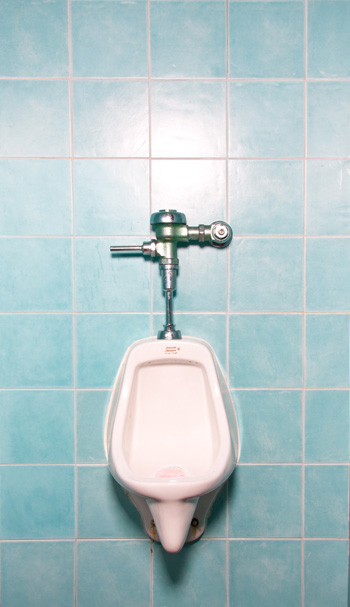
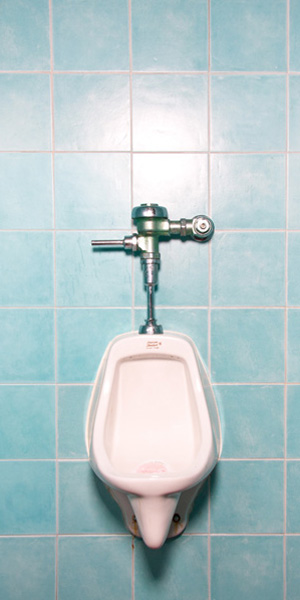
new images

diff --git a/index.html b/index.html
@@ -16,7 +16,7 @@
                 nextSelector: '#page_next',
                 itemSelector: 'figure',
                 loadingImg: '',
-                loadingText: 'coming up',
+                loadingText: 'COMING UP',
                 debug: false,
                 errorCallback: function() {
                     // fade out the error message after 2 seconds
@@ -38,10 +38,12 @@
 	    </div>	
 	        
 	    <div id="content" role="main">
+	    							<figure>
+	        	        	        	<a href="" class="link" target="_blank"><img src="img/greg.jpg" width="700" height="700" /></a></figure>
 	        	        	        <figure>
-	        	        	        	<a href="" class="link" target="_blank"><img src="img/Land1.jpg" width="723" height="512" /></a></figure>
+	        	        	        	<a href="" class="link" target="_blank"><img src="img/Land1.jpg" width="650" height="650" /></a></figure>
 	        	        	        <figure>
-	        	        	        	<a href="" class="link" target="_blank"><img src="img/cover0.gif" width="600" height="399" /></a></figure>
+	        	        	        	<a href="" class="link" target="_blank"><img src="img/street_lines.jpg" width="400" height="533" /></a></figure>
 	        	        	        <figure>
 	        	        	        	<a href="" class="link" target="_blank"><img src="img/pool.jpg" width="600" height="455" /></a></figure>
 	        	        	        <figure>
@@ -49,13 +51,27 @@
 	        	        	        <figure>
 	        	        	        	<a href="" class="link" target="_blank"><img src="img/pops.jpg" width="600" height="774" /></a></figure>
 	        	        	        <figure>
-	        	        	        	<!--<a href="" class="link" target="_blank">--><img src="img/carlsagan.jpg" width="600" height="400" /></figure>
+	        	        	        	<a href="" class="link" target="_blank"><img src="img/carlsagan.jpg" width="600" height="400" /></figure>
 	        	        	        <figure>
-	        	        	        	<!--<a href="" class="link" target="_blank">--><img src="img/spaceselfie.gif" width="600" height="400" /></figure>
+	        	        	        	<a href="" class="link" target="_blank"><img src="img/spaceselfie.gif" width="600" height="400" /></figure>
 	        	        	        <figure>
-	        	        	        	<!--<a href="" class="link" target="_blank">--><img src="img/hemingway1.jpg" width="600" height="400" /></figure>
+	        	        	        	<a href="" class="link" target="_blank"><img src="img/urinal.jpg" width="300" height="600" /></a></figure>
 	        	        	        <figure>
-	        	        	        	<!--<a href="" class="link" target="_blank">--><img src="img/DIRT.gif" width="600" height="450" /></a></figure>
+	        	        	        	<a href="" class="link" target="_blank"><img src="img/hemingway1.jpg" width="600" height="400" /></figure>
+	        	        	        <figure>
+	        	        	        	<a href="" class="link" target="_blank"><img src="img/DIRT.gif" width="600" height="400" /></a></figure>
+	        	        	        <figure>
+	        	        	        	<a href="" class="link" target="_blank"><img src="img/patti.jpg" width="600" height="800" /></a></figure>
+	        	        	        <figure>
+	        	        	        	<a href="" class="link" target="_blank"><img src="img/world1.jpg" width="700" height="457" /></a></figure>
+	        	        	        <figure>
+	        	        	        	<a href="" class="link" target="_blank"><img src="img/bust.jpg" width="400" height="349" /></a></figure>	
+	        	        	        <figure>
+	        	        	        	<a href="" class="link" target="_blank"><img src="img/hockney.gif" width="700" height="349" /></a></figure>
+	        	        	        <figure>
+	        	        	        	<a href="" class="link" target="_blank"><img src="img/bvitahand.jpg" width="450" height="419" /></a></figure>
+	        	        	        <figure>
+	        	        	        	<a href="" class="link" target="_blank"><img src="img/NYCstreet.jpg" width="525" height="700" /></a></figure>
 	        	        	       <!-- <figure>
 	        	        	        	<a href="http://turtleswithwings.tumblr.com/post/22290235460" class="link" target="_blank"><img src="/data/images/2014/11/tumblr-m3f8r5xsai1qhefv8o1-500.png" width="500" height="329" /></a></figure>
 	        	        	        <figure>
@@ -72,8 +88,9 @@
 	        	        	        	<a href="http://nimuradaisuke.tumblr.com/image/56687501206" class="link" target="_blank"><img src="/data/images/2014/10/tumblr-mqndi3djkx1sczrxso1-1280.jpg" width="600" height="847" /></a></figure>
 	        	        	        <figure>
 	        	        	        	<a href="http://nameloss.tumblr.com/" class="link" target="_blank"><img src="/data/images/2014/10/tumblr-nd9cqhkdnu1qa47z6o1-1280.jpg" width="600" height="420" /></a></figure>-->
-	        	    </div>
-	        
+	        	  </div>
+
+	        	  <br>  
 	    <div id="pageLinks">
 	        	        	        	         <a id="page_next" href="/?page/2"></a>
 	        	    </div>
